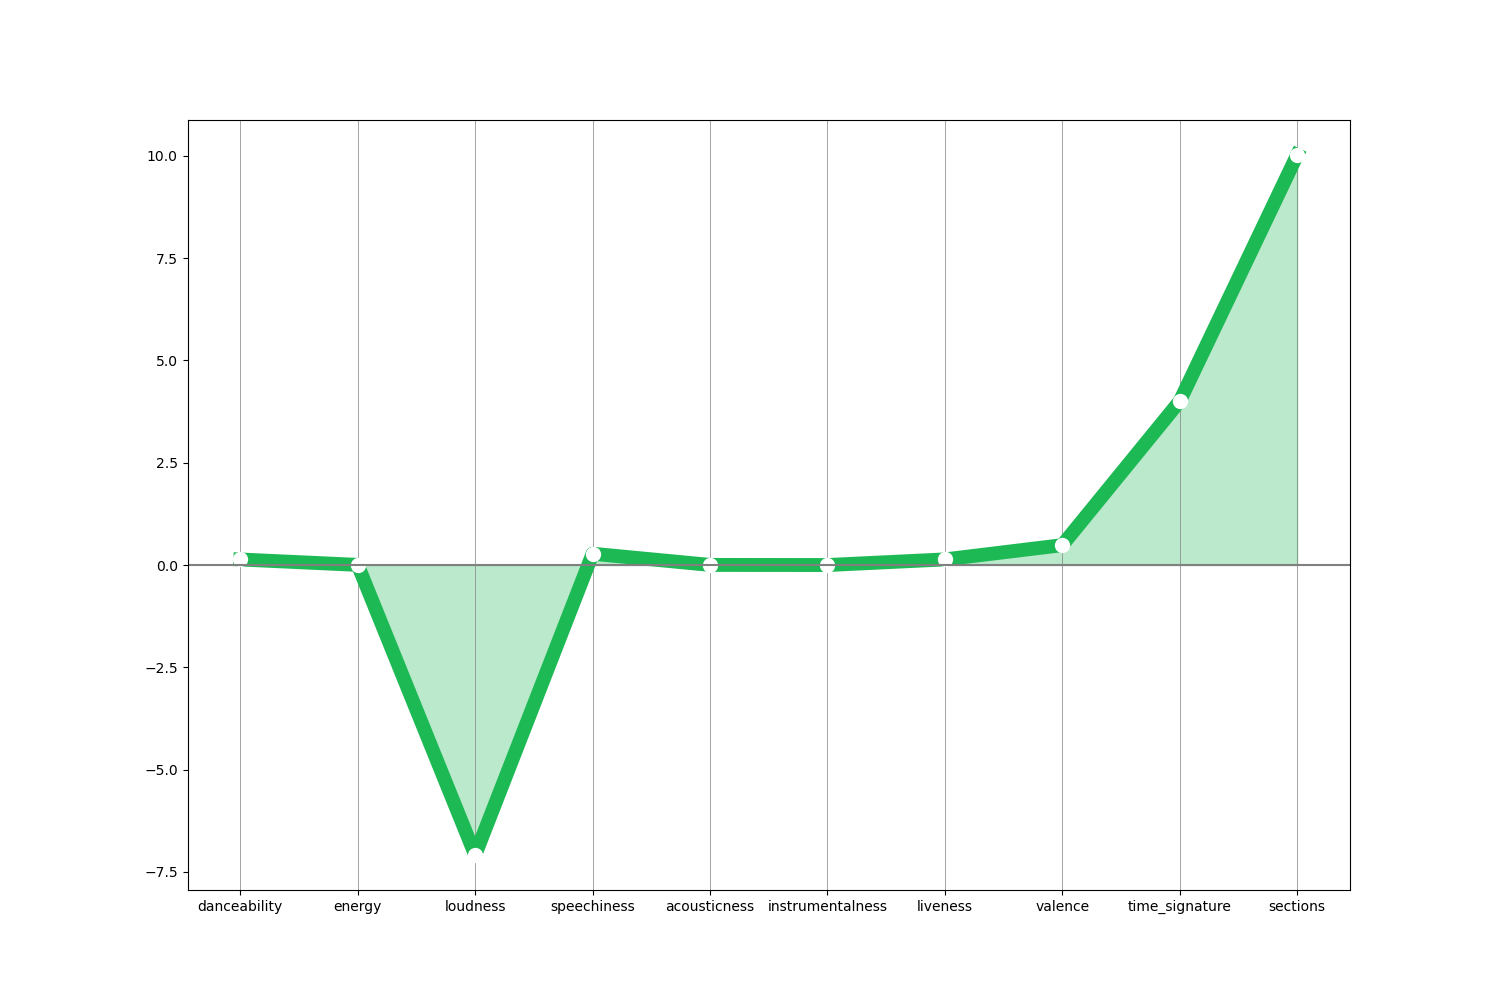
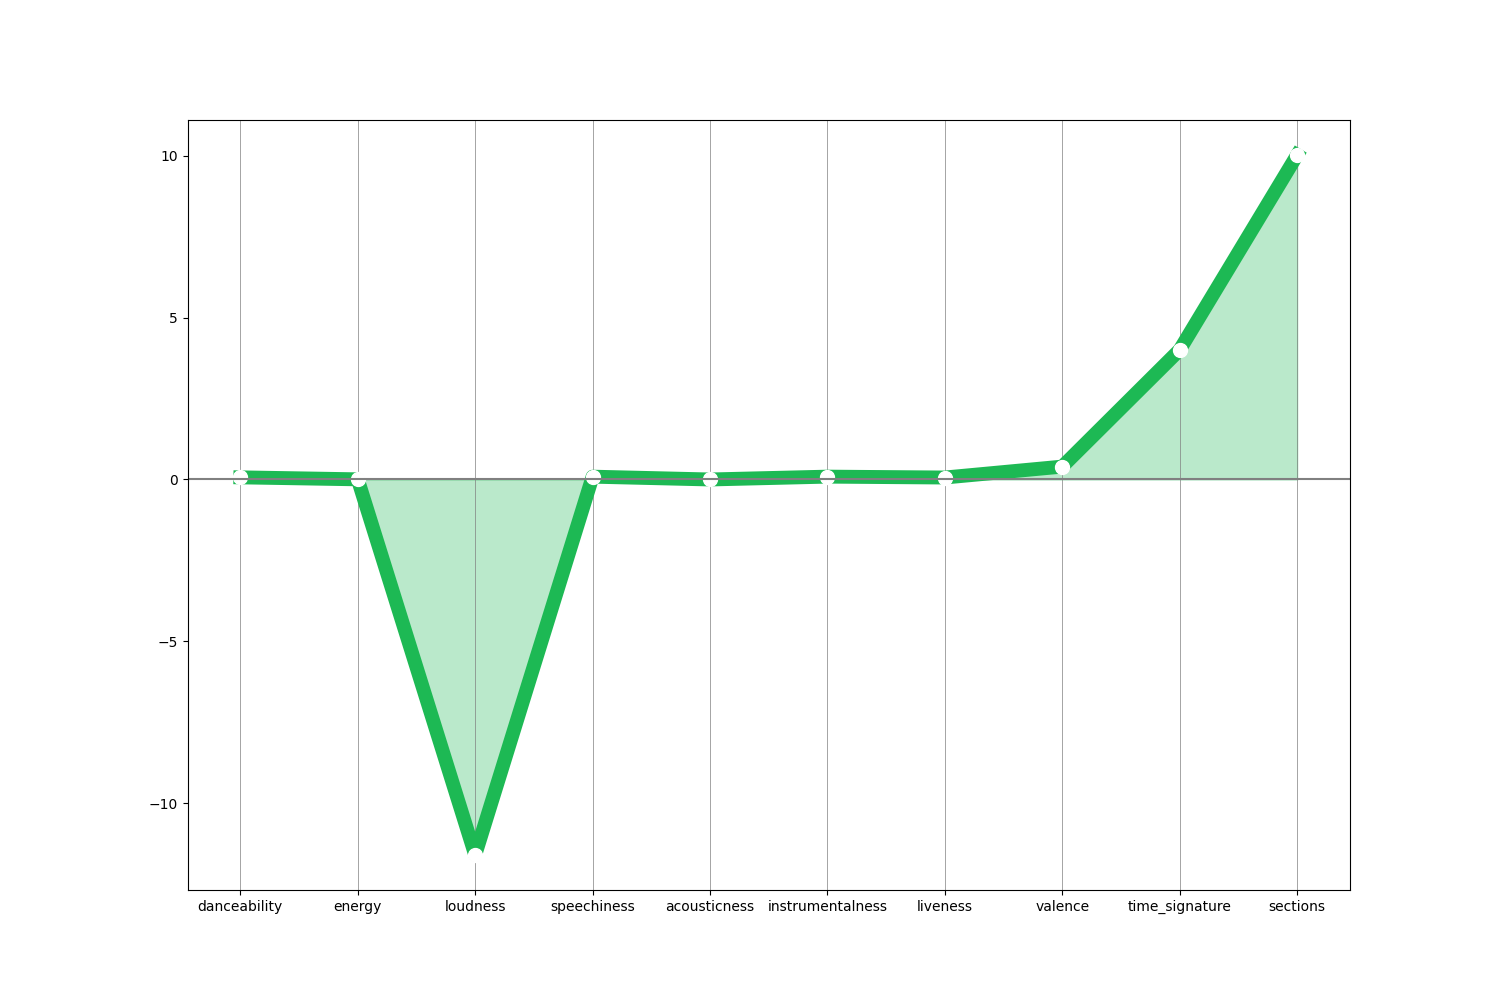
reco in web app marche

Changed region(s): [[0.1533, 0.186, 0.8893, 0.837]]

diff --git a/App/templates/thibaud.html b/App/templates/thibaud.html
@@ -6,15 +6,11 @@
     <meta name="viewport" content="width=device-width, initial-scale=1">
     <link rel="stylesheet" href="https://stackpath.bootstrapcdn.com/bootstrap/4.5.2/css/bootstrap.min.css">
     <link href="https://fonts.googleapis.com/css2?family=Montserrat:wght@400;500;600&display=swap" rel="stylesheet">
-    <link rel="icon" href="../static/images/music.ico">
     <style>
         body {
             font-family: 'Montserrat', sans-serif;
-            background-image: url('../static/images/background_crowd.jpeg') !important;
-            background-size: cover;
-            background-repeat: no-repeat;
-            background-attachment: fixed;
-           
+            background-color: black;
+            color: #FFFFFF
         }
 
         #graph-container { 
@@ -114,8 +110,6 @@
         .table-container {
             margin-top: 5px; /* Adjusted margin-top */
             margin-bottom: 5px; /* Adjusted margin-bottom */
-            background-color: rgba(27, 27, 27, 0.8);
-            color: white;
         }
         
         table {
@@ -153,7 +147,6 @@
             margin-right: 5px;
             font-size: 14px;
             padding: 5px 8px;
-            padding-bottom: 10xp
         }
 
         .nav-tabs .nav-link.active {
@@ -176,11 +169,6 @@
             padding: 20px; /* Adjust padding as required */
             }
 
-         .semitransparent-box {
-            background-color: rgba(27, 27, 27, 0.8); /* Change the color and transparency as needed */
-            padding: 10px; /* Adjust as needed */
-            border-radius: 10px; /* Adjust as needed */
-            }
 
     </style>
     <script>
@@ -220,7 +208,7 @@
         </h1>
         
         <!-- Tabs navigation -->
-        <ul class="nav nav-tabs" id="myTabs, margin-bottom: 5px">
+        <ul class="nav nav-tabs" id="myTabs">
             <li class="nav-item">
                 <a class="nav-link active" id="home-tab" data-toggle="tab" href="#home">Home</a>
             </li>
@@ -231,21 +219,21 @@
                 <a class="nav-link" id="social-media-tab" data-toggle="tab" href="#social-media">Social Media Appearance Predictor</a>
             </li>
             <li class="nav-item">
-                <a class="nav-link" id="statistics-tab" data-toggle="tab" href="#statistics">Explore</a>
+                <a class="nav-link" id="statistics-tab" data-toggle="tab" href="#statistics">Statistics</a>
             </li>
         </ul>
         
         <!-- Tab content -->
         <div class="tab-content" id="myTabContent">
-            <div class="tab-pane semitransparent-box" id="home">
+            <div class="tab-pane fade show active" id="home">
                 <div class="mt-5 text-center">
-                    <h1>Welcome to RhythmRadar!</h1>
+                    <h2>Welcome to RhythmRadar!</h2>
                 </div>
                 <div style="text-align: center; margin: 0 auto; max-width: 800px;">
-                    <p style="font-size: 14px; font-weight: 600; color: white;">Our app offers three exciting features to help you navigate the world of music. The Hit/Flop Predictor analyzes various factors to estimate a track's potential popularity. The Social Media Appearance Predictor assesses an artist's online impact and engagement. The Track Improvement Coach provides detailed analytics and suggestions to enhance your music tracks. Explore these features and take your music experience to new heights with RhythmRadar! Enjoy your journey into the world of music analytics!</p>
+                    <p style="font-size: 14px;">Our app offers three exciting features to help you navigate the world of music. The Hit/Flop Predictor analyzes various factors to estimate a track's potential popularity. The Social Media Appearance Predictor assesses an artist's online impact and engagement. The Track Improvement Coach provides detailed analytics and suggestions to enhance your music tracks. Explore these features and take your music experience to new heights with RhythmRadar! Enjoy your journey into the world of music analytics!</p>
                 </div>
                 <div class="mt-5 text-center">
-                    <div class="white-box" style="background-color: rgb(78, 78, 78, 0.3); padding: 20px; display: inline-block; border-radius: 5px">
+                    <div class="white-box" style="background-color: rgb(78, 78, 78); padding: 20px; display: inline-block;">
                         <form action="/getdata" method="post" style="display: inline-block;">
                             <div class="form-group d-flex justify-content-between" style="text-align: center; margin: 0 auto; max-width: 500px;">
                                 <div style="flex: 1; margin-right: 5px;">
@@ -268,13 +256,13 @@
             </div>            
         
             <div class="tab-pane fade" id="hit-flop">
-                <div class="mt-3"> 
-                    <div class="form-group">
-                        <label for="track-id-prediction">Prediction:</label>
-                        <span class="prediction-value" id="prediction" style="display: block; text-align: center; font-size: 24px; color: green;">{{ prediction }}</span>
-                    </div>
-                        <img src="/static/images/feature_graph.png" alt="Plot" style="width: 100%; height: 50%;">
-                        <label for="track-id-output" style="display: block; text-align: center; font-size: 24px; color: green;">Track Information:</label>
+                <div class="form-group">
+                    <label for="track-id-prediction">Prediction:</label>
+                    <span class="prediction-value" id="prediction" style="display: block; text-align: center; font-size: 24px; color: green;">{{ prediction }}</span>
+                </div>
+                    <img src="/static/images/feature_graph.png" alt="Plot" style="width: 100%; height: 50%;"><!-- to adjust the size of the image change width or height!-->
+                <div class="form-group">
+                    <label for="track-id-output">Track Information:</label>
                     <div class="table-container mt-2">
                         <table>
                         <thead>
@@ -352,7 +340,7 @@
                         <label for="track-id-prediction">Social Media Success Prediction:</label>
                         <span class="prediction-value" id="prediction" style="display: block; text-align: center; font-size: 24px; color: green;">{{ prediction2 }}</span>
                     </div>
-                        <label for="track-id-output" style="color: #cbcecb;">Social Media Track Success:</label>
+                        <label for="track-id-output">Social Media Track Success:</label>
                 <div class="table-container mt-2">
                     <table>
                     <thead>
@@ -420,7 +408,6 @@
                             </tr>
                         </tbody>
                     </table>
-                    <p>Recommendation: {{ recommendation }}</p>
                 </div>
             </div>
             </div>

diff --git a/App/Thibaud.py b/App/Thibaud.py
@@ -21,7 +21,7 @@ import numpy as np
 #     plt.savefig('mean-features-hits.png', dpi=300, bbox_inches='tight') 
 #     # plt.title('Fancy Graph')
 #     # plt.xlabel('X')
-#     # plt.ylabel('Y') 
+#     # plt.ylabel('Y')
 #     #plt.savefig(file_path)
 #     plt.close()
      
@@ -43,32 +43,31 @@ def generate_feature_graph(file_path, x, y):
     mean_tempo = np.mean(y)
 
     fig, ax = plt.subplots(figsize=(15, 10))
-    ax.plot(x, y, color='#1DB954', linewidth=10)
-    ax.plot(x, y, 'o', color='white', linewidth = 0.8, markersize = 10) 
-    ax.axhline(y=0, color='grey')
-    ax.grid(axis='x', color='grey', linestyle='-', linewidth=0.5) 
+    ax.plot(x, y, color='#1DB954')
+    ax.plot(x, y, 'o', color='black', linewidth=5)
+    ax.axhline(y=0, color='black')
+    ax.grid(axis='x', color='black', linestyle='-', linewidth=0.5)
 
-    # Set the background color to black 
-    ax.set_facecolor('black')
+    # Set the background color to black
     ax.fill_between(x, y, color='#1DB954', alpha=0.3)
-    fig.savefig(file_path, facecolor=fig.get_facecolor(), transparent=True)  # Save with black background  
+    fig.savefig(file_path)  # Save with black background
     plt.close(fig)
 
 # Specify the save directory
 save_directory = 'App/static/images/'
 
-# Generate and save the first graph (line plot) 
+# Generate and save the first graph (line plot)
 file_name = 'genre_heatmap.png'
 file_path = os.path.join(save_directory, file_name)
 x = np.linspace(0, 10, 100)
 y = np.sin(x)
 # generate_and_save_graph(file_path, x, y, 'line')
 generate_and_save_graph()
-# Generate and save the second graph (spider chart)  
+# Generate and save the second graph (spider chart)
 # file_name = 'mean-features-hits.png'
 # file_path = os.path.join(save_directory, file_name)
 # # x = ['A', 'B', 'C', 'D', 'E']
-# # y = [4, 7, 2, 5, 9] 
+# # y = [4, 7, 2, 5, 9]
 # generate_and_save_graph(file_path, x, y, 'spider')
 
 #Generate and save second graph (spider chart) 
@@ -84,11 +83,11 @@ y = np.random.rand(100)
 app = Flask(__name__)
 
 # Open the web page on Safari
-webbrowser.get('safari').open_new_tab('http://127.0.0.1:5000')
+webbrowser.get('safari').open_new_tab('http://127.0.0.1:5000/')
 
 @app.route('/')
 def index():
-    return render_template('index2.html')
+    return render_template('donottouch.html')
 
 @app.route('/getdata', methods=['POST'])
 def getdata():
@@ -243,18 +242,18 @@ def getdata():
 
 
     #### Create a graph: ####
-    graph_file_path = os.path.join('App/static/images/', 'feature_graph.png')
+    graph_file_path = os.path.join('App/static/images', 'feature_graph.png')
 
     
-    # Load your data into a pandas DataFrame 
-     
+    # Load your data into a pandas DataFrame
+    
 
     # Calculate mean values
     mean_tempo = df['tempo'].mean()
     mean_chorus_hit = df['chorus_hit'].mean()
 
     deviation_tempo = abs(tempo - mean_tempo)
-    deviation_chorus_hit = abs(chorus_hit - mean_chorus_hit)  
+    deviation_chorus_hit = abs(chorus_hit - mean_chorus_hit)
 
     # graph_data = [[danceability, energy, loudness, speechiness, acousticness, instrumentalness, liveness, valence, tempo, time_signature, chorus_hit, sections]]
     # feature_names = ['danceability', 'energy', 'loudness', 'speechiness', 'acousticness', 'instrumentalness', 'liveness','valence', 'deviation_tempo', 'time_signature', 'deviation_chorus_hit', 'sections']
@@ -277,80 +276,10 @@ def getdata():
     # Generate the graph
     generate_feature_graph(graph_file_path, feature_names, graph_data_scaled[0]) 
 
-    data_tofindtrack = pd.read_csv('Spotify Data/data-clean.csv')
-    #create duration_ms
-    data_tofindtrack['track_seconds'] = data_tofindtrack['duration_ms'] / 1000
-    # Drop unnecessary columns
-    data_tofindtrack = data_tofindtrack.drop(["era", "sm_target", "popularity", "tiktok", "spotify", "track", "artist", "duration_ms", "key", "mode", "main_parent_genre"], axis=1)
-
-
-    tuningfeatures = ["loudness", "danceability", "acousticness","chorus_hit","sections", 
-                  "energy", "speechiness","instrumentalness","liveness",
-                  "valence","tempo","time_signature"]
-    
-    def id_to_df (track_id):
-        track_df = data_tofindtrack[data_tofindtrack['track_id'] == track_id]
-        track_df = track_df.drop([ "track_id"], axis=1)
-        return track_df
-
-    values = [1, 0.8, 1.2, 0.6, 1.4, 0.4, 1.6, 0.2]
-
-    def checkfeature (insert_feature, song_df):
-        song = song_df
-        feature = insert_feature
-        for value in values:
-            song_copy = song.copy()  # Create a copy of the DataFrame
-            feature = insert_feature
-            song_copy[feature] = song_copy[feature] * value 
-
-            if song_copy.empty:
-                continue
-            pred = xgb_model_loaded.predict(song_copy)
-            #print(value)
-
-            if pred[0] > 0:
-                print ("HIT reached")
-                print ("You have to change " + str(feature) +" by " + str(value))
-                return value
-    def success (insert_feature, song_df):
-        if checkfeature(insert_feature, song_df ) is None:
-            print ("no success with " + str(insert_feature))
-            return 0
-        print ("success")
-        return 1
-
-    def test (track_id):
-        song_df = id_to_df(track_id)
-        for feature in tuningfeatures:
-            if success (feature, song_df) ==1:
-                print ("you have reached a HIT")
-                return 
-            
-    recommendation = test(track_id)
-
 # Process the track data as needed
-    return render_template('index2.html', 
-                           track_data=track_data_json,
-                           danceability=danceability, 
-                           energy=energy, 
-                           key=key, 
-                           loudness=loudness, 
-                           mode=mode, 
-                           speechiness=speechiness,
-                           acousticness=acousticness, 
-                           instrumentalness=instrumentalness, 
-                           liveness=liveness, 
-                           valence=valence, 
-                           tempo=tempo, 
-                           time_signature=time_signature, 
-                           chorus_hit=chorus_hit, 
-                           sections=sections, 
-                           prediction=prediction_label, 
-                           prediction2=prediction_label2,
-                           recommendation=recommendation
-                        )
+    return render_template('donottouch.html', track_data=track_data_json, danceability=danceability, energy=energy, key=key, loudness=loudness, mode=mode, speechiness=speechiness, acousticness=acousticness, instrumentalness=instrumentalness, liveness=liveness, valence=valence, tempo=tempo, time_signature=time_signature, chorus_hit=chorus_hit, sections=sections, prediction=prediction_label, prediction2=prediction_label2)
 
 if __name__ == '__main__':
-    app.run(debug=True) 
+    app.run(debug=True)
 
 
